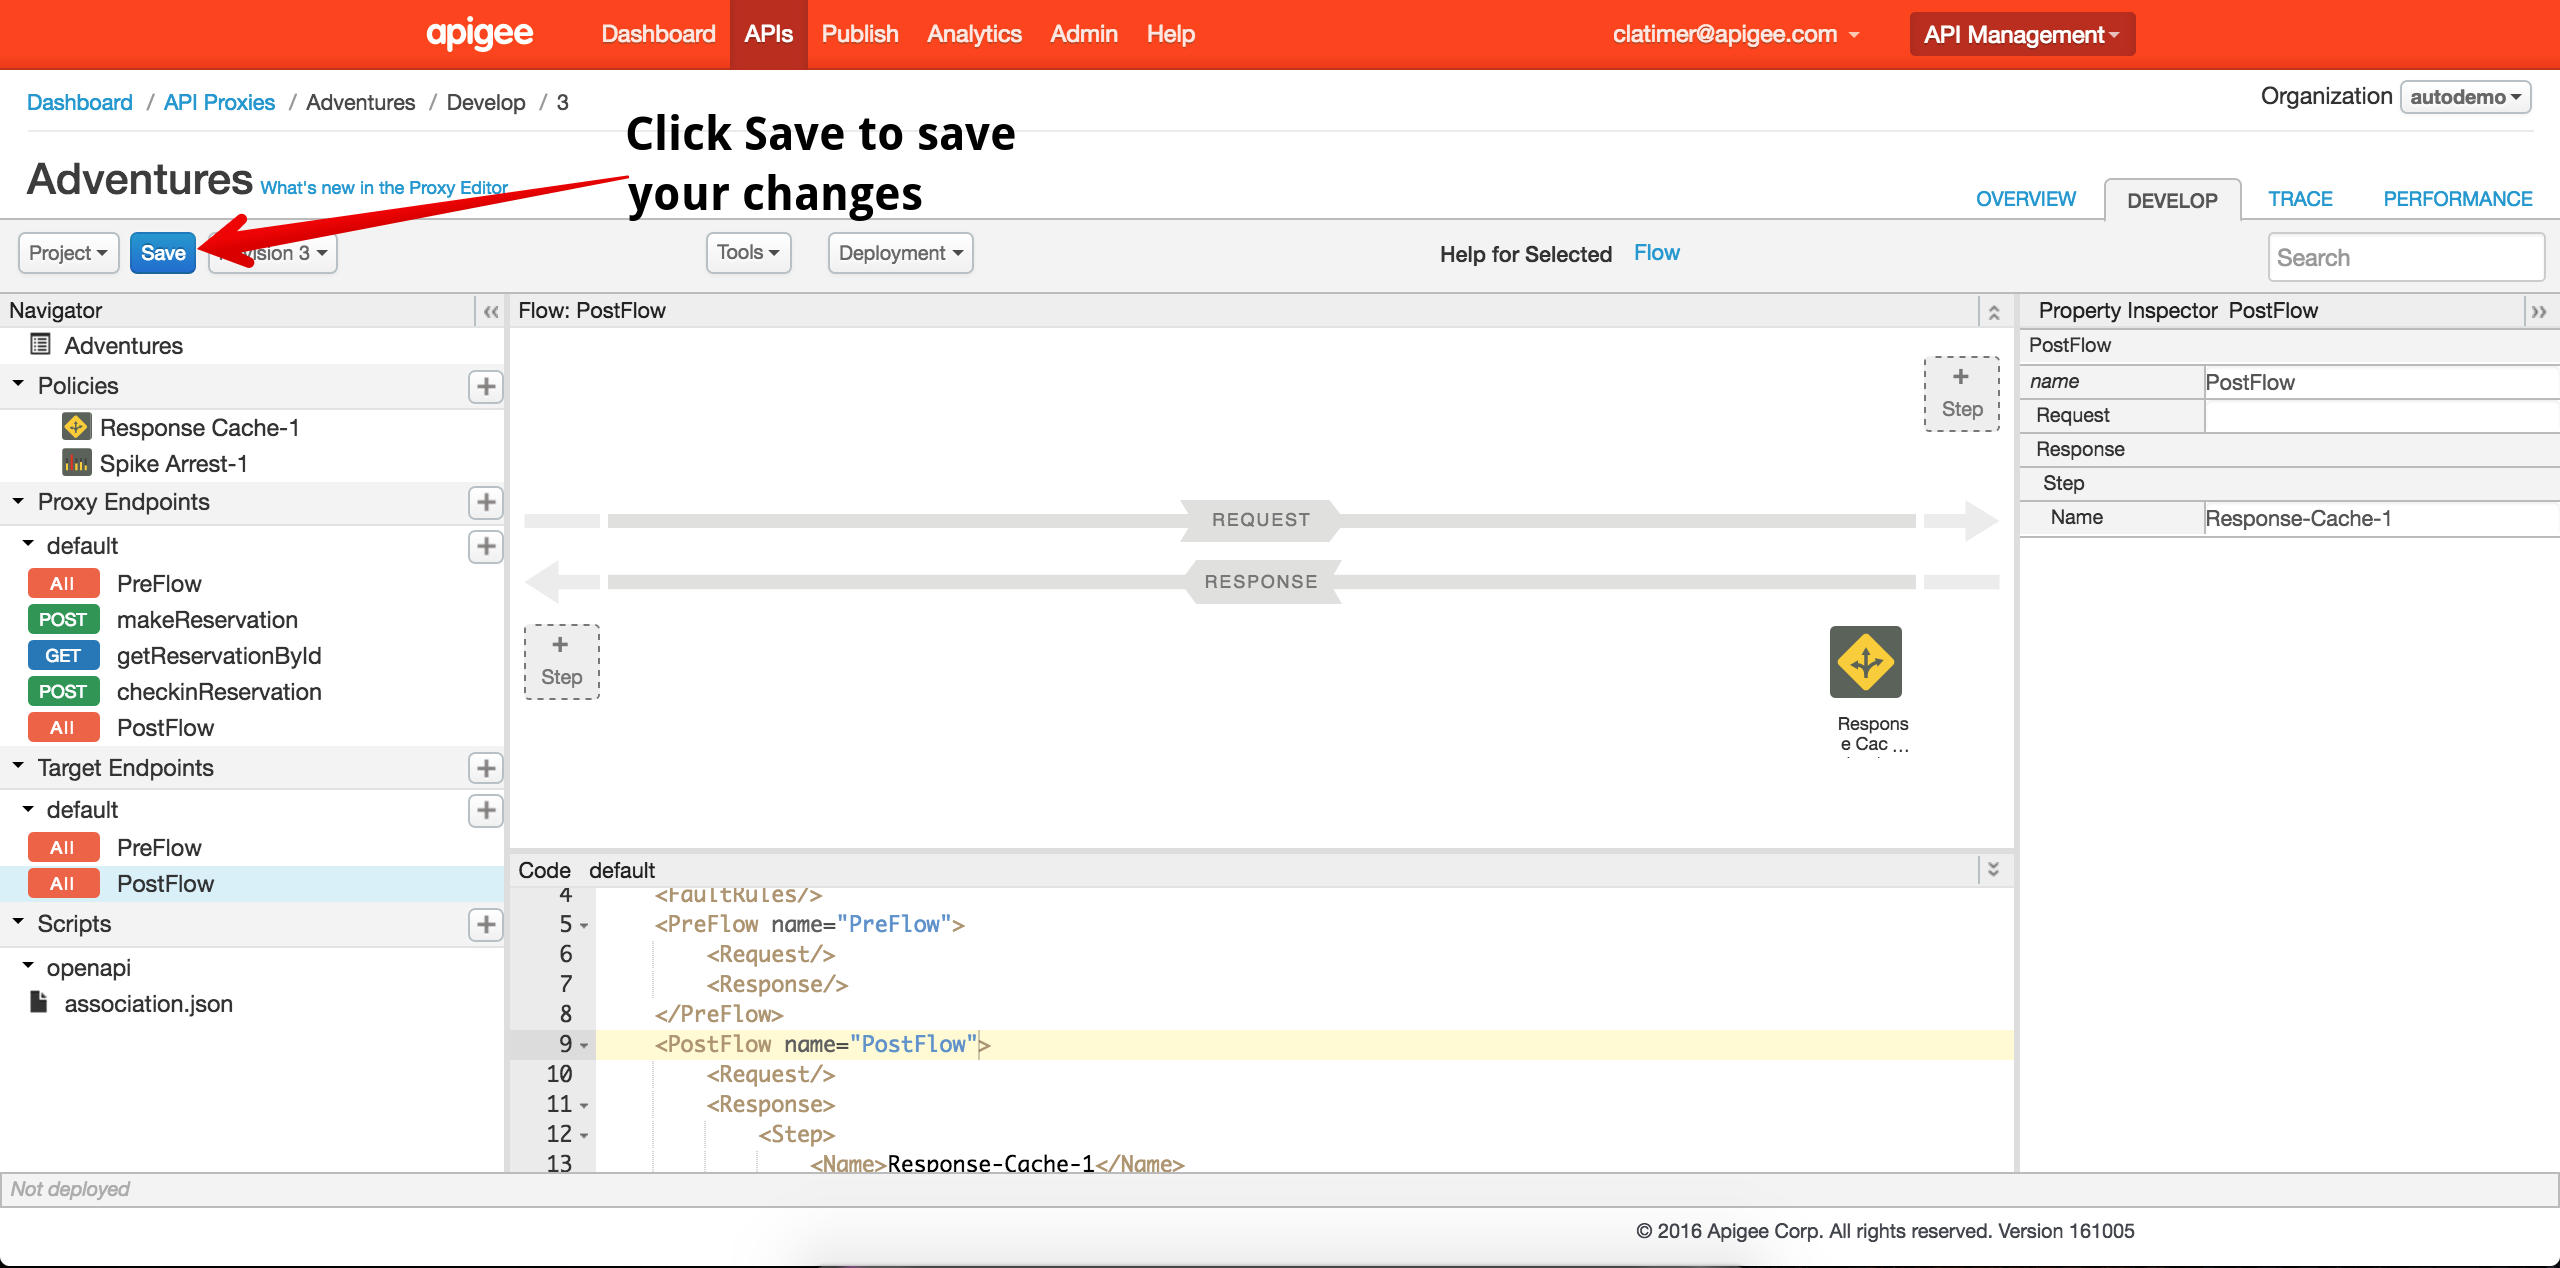
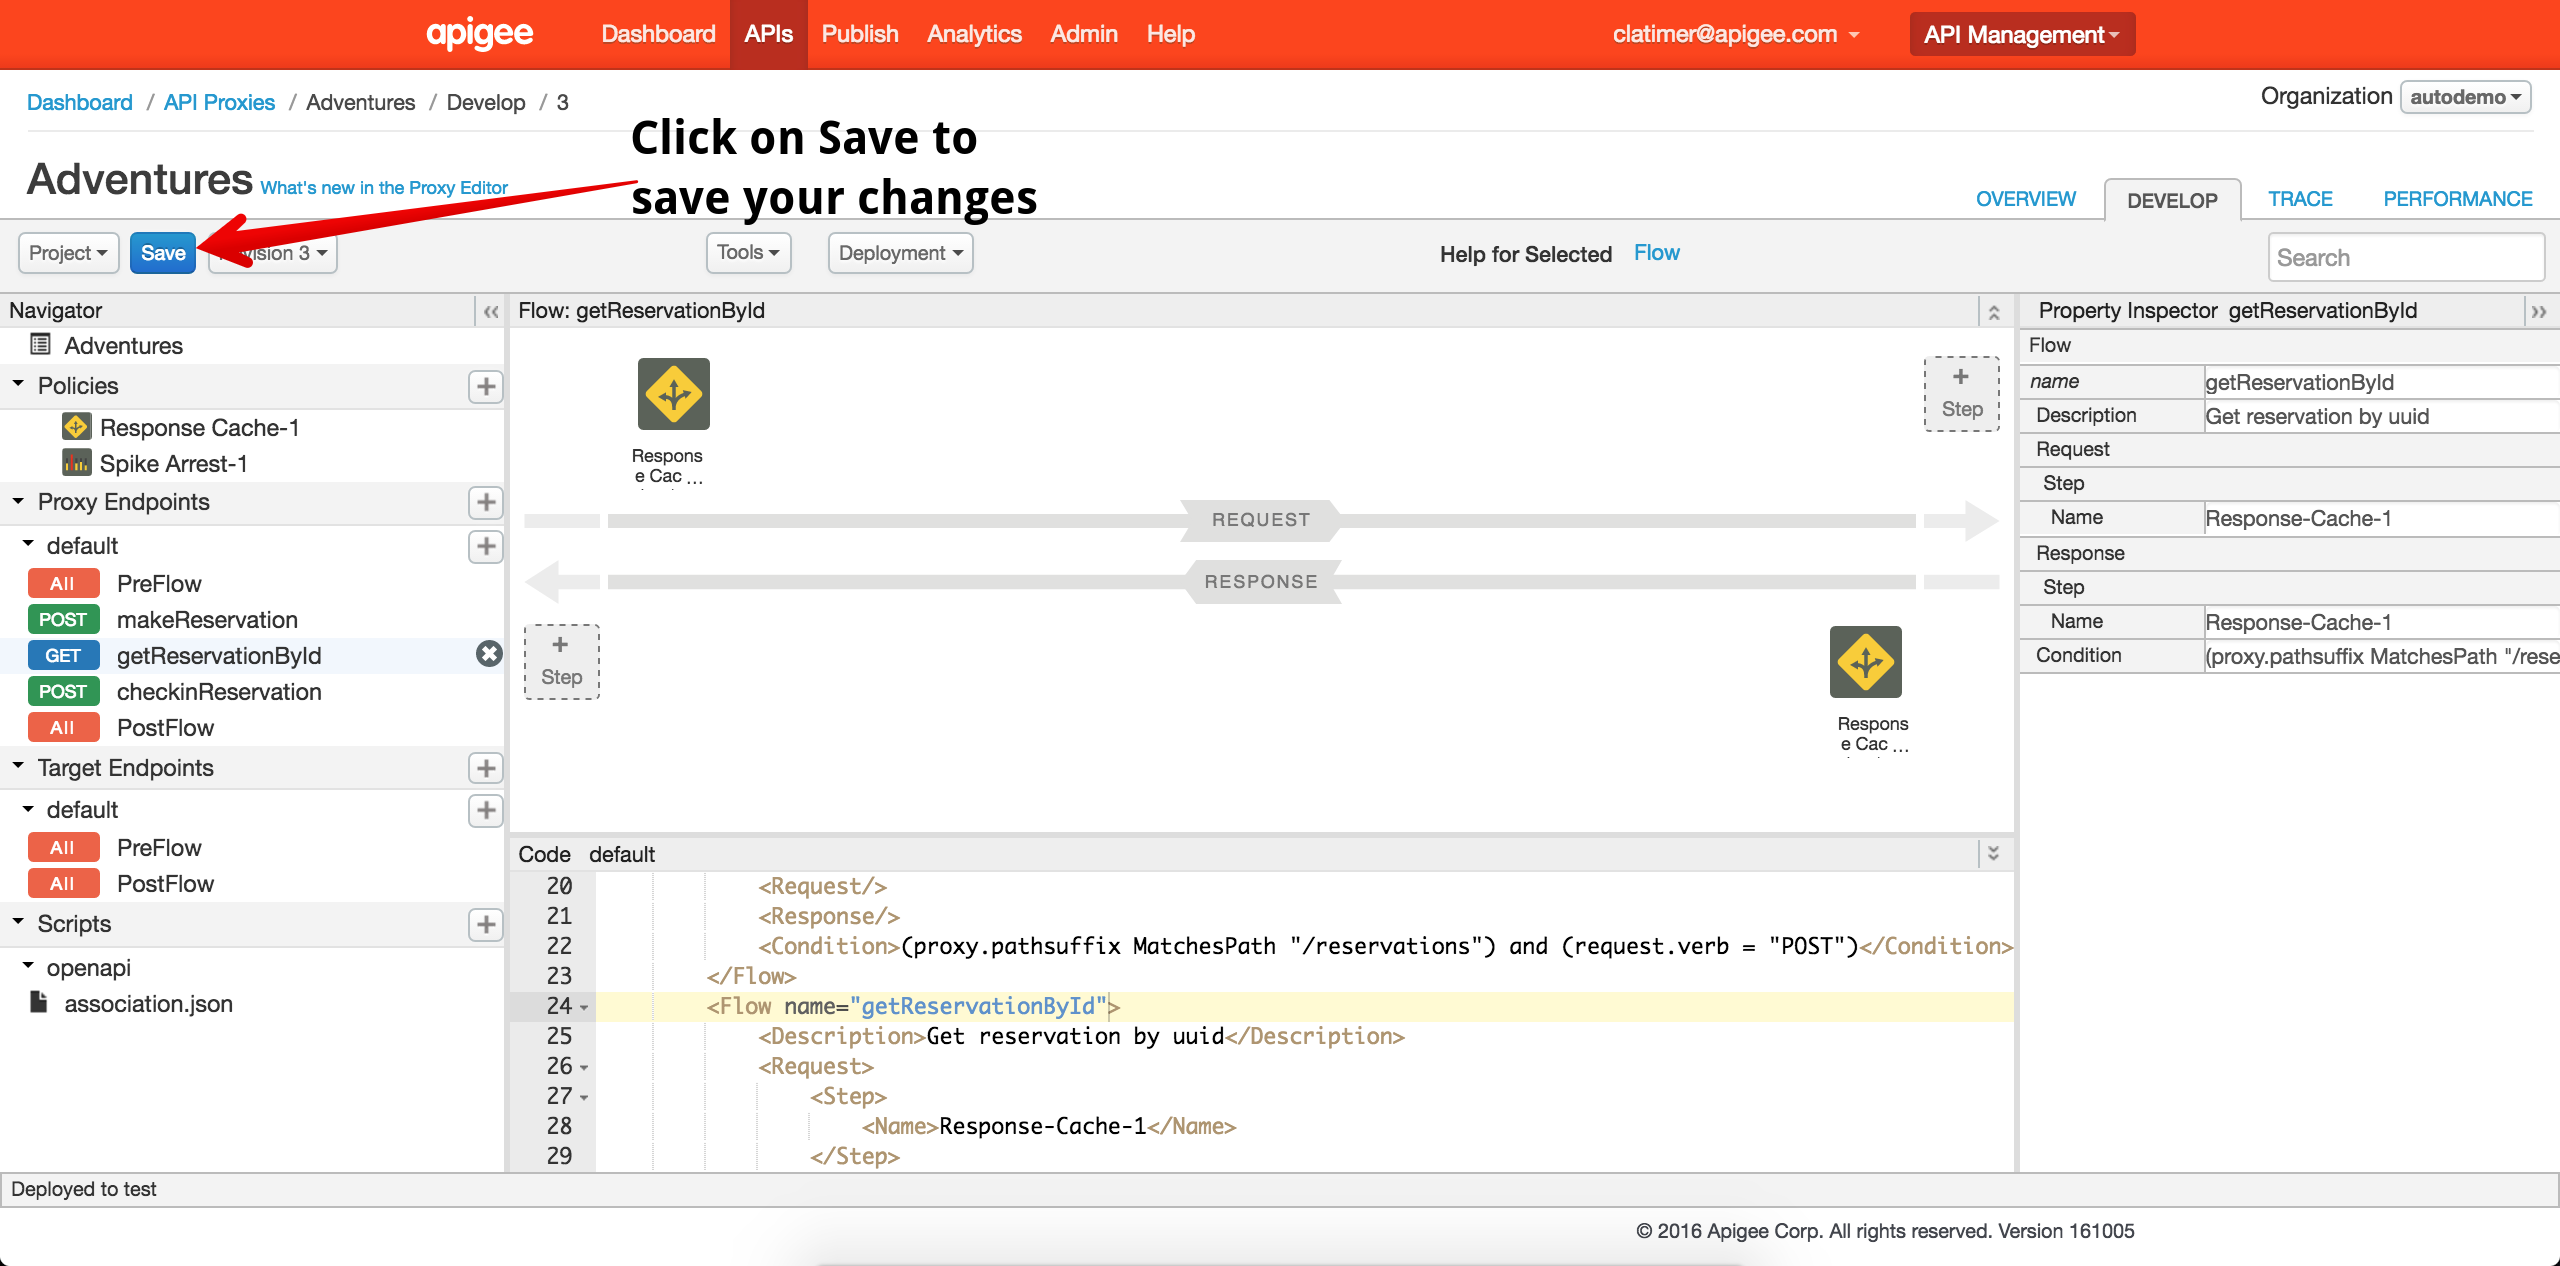
lab 4

diff --git a/lab4.md b/lab4.md
@@ -20,13 +20,9 @@ Once you have selected the `getReservationById` flow, drag the Response Cache po
 
 ![Reservation Cache](images/get-reservation-cache.png)
 
-With this configuration, your API proxy will check the cache each time a reservation lookup API call is made. Next, we need to configure your API proxy to populate the cache when you get a response from the backend service. To do this, select the Post Flow for your default Target Endpoint:
+With this configuration, your API proxy will check the cache each time a reservation lookup API call is made. Next, we need to configure your API proxy to populate the cache when you get a response from the backend service. To do this, drag the same Response Cache policy to the response pipeline:
 
-![Target Flow](images/target-postflow.png)
-
-Once you have the default Target Endpoint Post Flow selected, drag the Response Cache policy from the policy list to the Response Pipeline:
-
-![Target Cache](images/target-cache.png)
+![Reservation Cache](images/get-reservation-cache-response.png)
 
 Once you have added the cache policy to the reponse pipeline, click on the blue *Save* button in the top left to save your changes:
 
